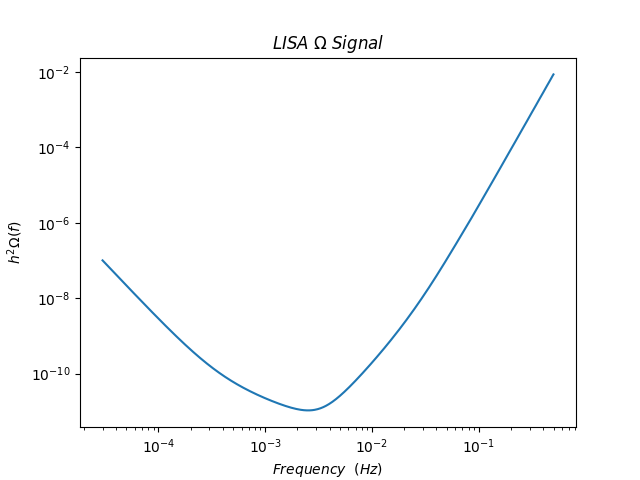
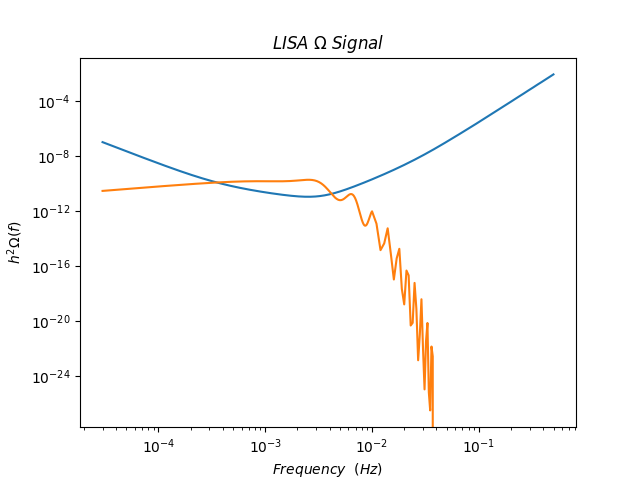
combining noise curves

diff --git a/Main/Data_Analysis/noise.py b/Main/Data_Analysis/noise.py
@@ -1,0 +1,55 @@
+import numpy as np
+from numpy import pi
+import matplotlib.pyplot as plt
+
+
+# Constants
+c = 3.0e8 #m/s
+L = 2.5e9 #m
+f_s = c/(2*pi*L)
+h = 0.678
+H_0 = (100 * h)/(3.09e19)
+
+# DWD Noise Boileau et al.
+def lisa_noise_1(f, A1, A2, alpha1, alpha2, A, P):
+    
+    def DWD_noise_1():
+        return (A1*(f/f_s)**alpha1)/(1 + A2*(f/f_s)**alpha2) # Broken power law
+            
+    def S_n(): #Strain sensitivity
+        return ((10/3)*(1+ 0.6*((2*pi*f*L/c)**2))*(P_oms() + (3 + np.cos((4*pi*f*L)/c))*P_acc()))/(((2*pi*f*L/c))**2)
+        
+    def P_oms():
+        return (P**2)*((10**-12)**2)*((1 + (0.002/f)**4))*(((2*pi*f)/c)**2)
+
+    def P_acc():
+        return (A**2)*((10**-15)**2)*(1 + ((0.0004/f)**2))*(1 + (f/0.008)**4)*(1/(4*pi*pi*f*f*c*c))  
+            
+    def Omega_N():
+        return ((2*(pi**2))/(3*H_0**2))*(f**3)*S_n()
+
+    return  DWD_noise_1() + Omega_N()
+
+
+# DWD Noise Robson & Cornish
+def lisa_noise_2(f, alpha, beta, gamma, k, A, P):
+    def DWD_noise_2(): 
+        def Sc():
+            A = 9e-45
+            return A*f**(-7/3)*np.exp(-f**alpha + beta*f*np.sin(k*f))*(1 + np.tanh(gamma*(0.00113 - f)))
+
+        return (4*(pi)**2*f**3/(3*H_0**2))*Sc()
+    
+    def S_n(): #Strain sensitivity
+        return ((10/3)*(1+ 0.6*((2*pi*f*L/c)**2))*(P_oms() + (3 + np.cos((4*pi*f*L)/c))*P_acc()))/(((2*pi*f*L/c))**2)
+        
+    def P_oms():
+        return (P**2)*((10**-12)**2)*((1 + (0.002/f)**4))*(((2*pi*f)/c)**2)
+
+    def P_acc():
+        return (A**2)*((10**-15)**2)*(1 + ((0.0004/f)**2))*(1 + (f/0.008)**4)*(1/(4*pi*pi*f*f*c*c))  
+            
+    def Omega_N():
+        return ((2*(pi**2))/(3*H_0**2))*(f**3)*S_n()
+
+    return DWD_noise_2() + Omega_N()

diff --git a/Main/Data_Analysis/DWD_noise_2.py b/Main/Data_Analysis/DWD_noise_2.py
@@ -10,27 +10,30 @@ h = 0.678
 H_0 = (100 * h)/(3.09e19)
 
 # Where do i get my values for A and alpha from here?
-def DWD_noise_2(f, alpha, beta, gamma, fk): 
+def DWD_noise_2(f, alpha, beta, gamma, k): 
     def Sc(f):
         A = 9e-45
-        return A*f**(-7/3)*np.exp**(-f**0.138 - 221*f*np.sin(521*f)*((1 + np.tanh(1680*(0.00113 - f)))))
+        return A*f**(-7/3)*np.exp(-f**alpha + beta*f*np.sin(k*f))*(1 + np.tanh(gamma*(0.00113 - f)))
 
-    return 4*(pi)**2*f**3/(3*H_0**2)*Sc(f)
+    return (4*(pi)**2*f**3/(3*H_0**2))*Sc(f)
     
 if __name__ == "__main__":
-    frequencies = np.logspace(-6, 1, 8000)
-    Noise = np.sqrt(S_n(frequencies, 3, 15))
+    f_low = np.arange(0.00003, 0.001, 0.000001)
+    f_middle = np.arange(0.001, 0.01, 0.00005)
+    f_high = np.arange(0.01, 0.5, 0.001)
+    frequencies = np.concatenate((f_low, f_middle, f_high))   
     Omega = Omega_N(frequencies, 3, 15)
-    np.savetxt('Omega_Noise_test.csv', Omega, delimiter=',')
-    print(Omega)
-
+    DWD_Noise_2 = DWD_noise_2(frequencies, 0.138, -221, 521, 1680)
+    total_noise = (Omega + DWD_Noise_2)
 
 # Plotting Sensitivity Curve
 
     plt.loglog(frequencies, Omega)
+    plt.loglog(frequencies, DWD_Noise_2)
+    plt.loglog(frequencies, total_noise)
     plt.title(r'$LISA$' + " " + r'$\Omega$' + " " + '$Signal$')
     plt.xlabel(r'$Frequency$' + "  " + r'$(Hz)$')
     plt.ylabel(r'$h^{2}\Omega(f)$')
     plt.grid = 'True'
-    plt.savefig('Lisa h^2Omega Curve Giese et al')
+    plt.savefig('Lisa Sensitivity + DWD Noise 2')
     plt.show()

diff --git a/Main/Data_Analysis/DWD_noise_1.py b/Main/Data_Analysis/DWD_noise_1.py
@@ -9,23 +9,26 @@ f_s = c/(2*pi*L)
 
 # Where do i get my values for A and alpha from here?
 def DWD_noise_1(frequencies, A1, A2, alpha1, alpha2):
-    return A1*(frequencies/f_s)**alpha1/(1 + A2(frequencies/f_s)**alpha2) # Broken power law
+    return (A1*(frequencies/f_s)**alpha1)/(1 + A2*(frequencies/f_s)**alpha2) # Broken power law
     
 
 if __name__ == "__main__":
-    frequencies = np.logspace(-6, 1, 8000)
-    Noise = np.sqrt(S_n(frequencies, 3, 15))
+    f_low = np.arange(0.00003, 0.001, 0.000001)
+    f_middle = np.arange(0.001, 0.01, 0.00005)
+    f_high = np.arange(0.01, 0.5, 0.001)
+    frequencies = np.concatenate((f_low, f_middle, f_high)) 
     Omega = Omega_N(frequencies, 3, 15)
-    np.savetxt('Omega_Noise_test.csv', Omega, delimiter=',')
-    print(Omega)
-
+    DWD_Noise_1 = DWD_noise_1(frequencies, 7.44e-14, 2.96e-7, -1.98, -2.6)
+    total_noise = Omega + DWD_Noise_1
 
 # Plotting Sensitivity Curve
 
     plt.loglog(frequencies, Omega)
+    plt.loglog(frequencies, DWD_Noise_1)
+    plt.loglog(frequencies, total_noise)
     plt.title(r'$LISA$' + " " + r'$\Omega$' + " " + '$Signal$')
     plt.xlabel(r'$Frequency$' + "  " + r'$(Hz)$')
     plt.ylabel(r'$h^{2}\Omega(f)$')
     plt.grid = 'True'
-    plt.savefig('Lisa h^2Omega Curve Giese et al')
+    plt.savefig('Lisa sensitivity + DWD noise 1')
     plt.show()
